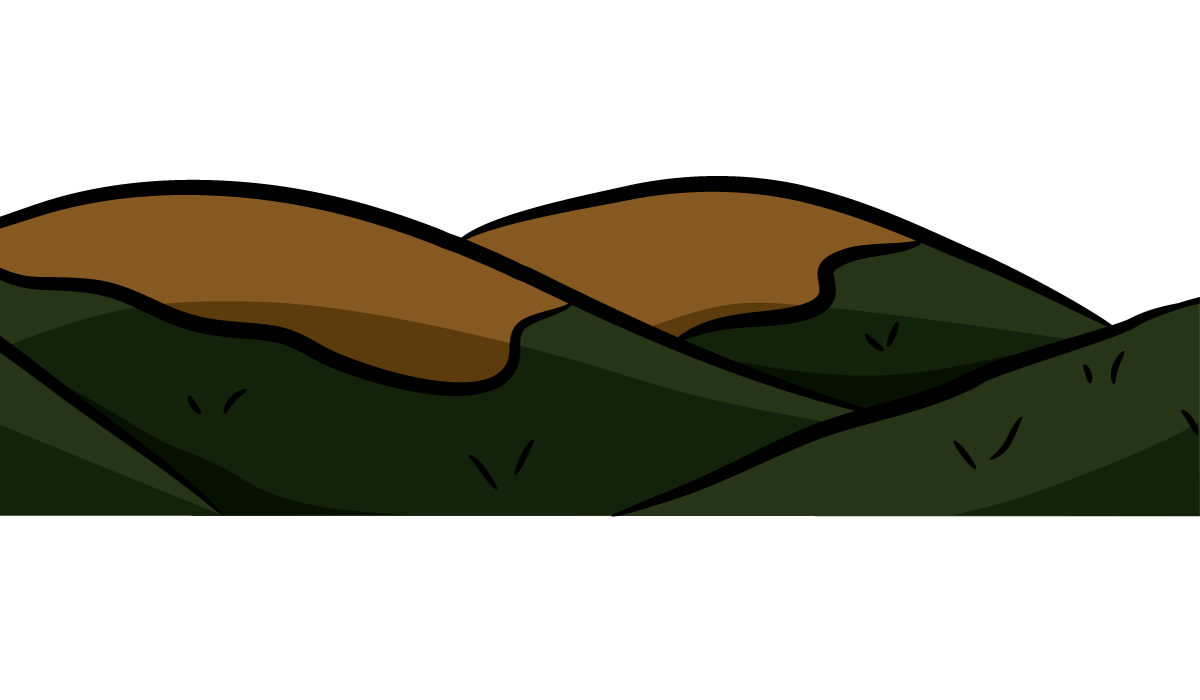
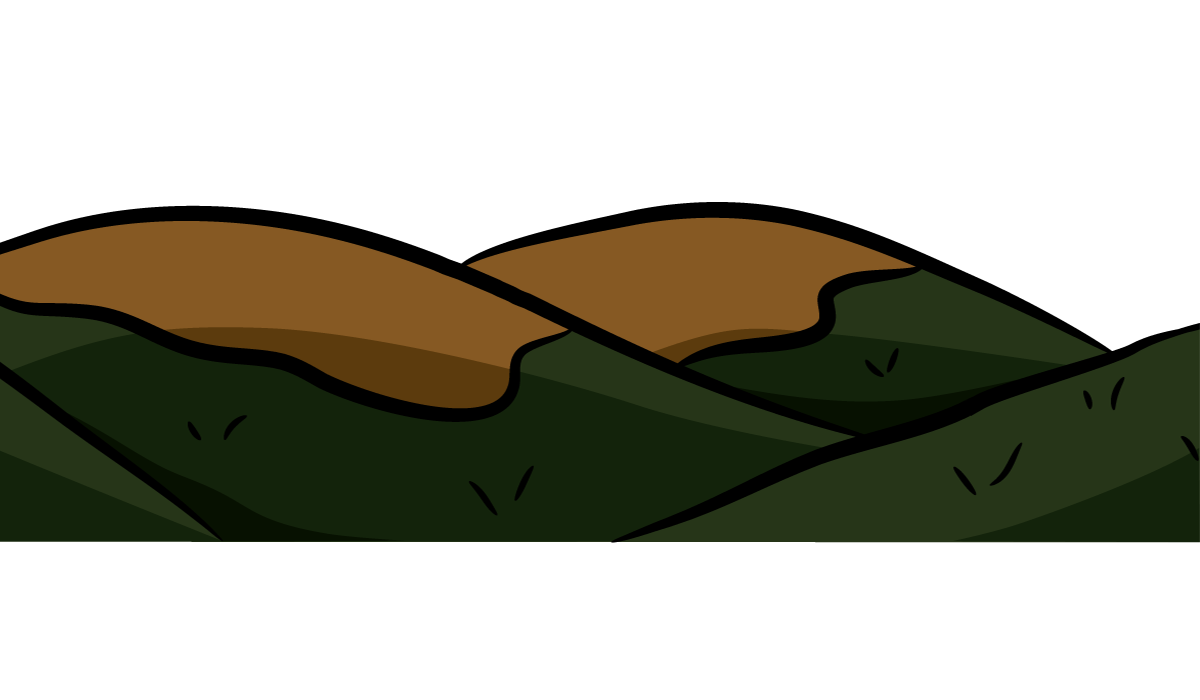
Parallax done

Changed region(s): [[0.0, 0.24, 1.0, 0.78], [0.9867, 0.57, 1.0, 0.66]]

diff --git a/scenes.py b/scenes.py
@@ -13,45 +13,46 @@ class GameScene(Scene):
     self.add(moving_bg)
 
 class MovingBackground(Layer):
-  BG_IMGS = [
-              "images/NonMovingBG.png",
-              "images/Ulap.png",
-              "images/Mountains.png",
-              "images/FastMovingBG.png"
-            ]
   def __init__(self):
     super(MovingBackground, self).__init__()
     self.non_moving_bg = Sprite("images/NonMovingBG.png", anchor=(0,0))
-    self.clouds = Sprite("images/Ulap.png", anchor=(0,0))
+
+    self.clouds = [
+        Sprite("images/clouds_01.png", anchor=(0,0)),
+        Sprite("images/clouds_02.png", anchor=(0,0))
+    ]
 
     self.mountains = [
         Sprite("images/Mountains_01.png", anchor=(0,0)),
         Sprite("images/Mountains_02.png", anchor=(0,0))
     ]
 
+    self.road = [
+        Sprite("images/Road_01.png", anchor=(0,0)),
+        Sprite("images/Road_02.png", anchor=(0,0))
+    ]
+
+    self.parallax_bgs = [self.clouds, self.mountains, self.road]
+    self.parallax_speed = [5, 10, 15]
+
     self.positions = [0, GameScene.WIDTH]
-    self.fast_moving_bg = Sprite("images/FastMovingBG.png", anchor=(0,0))
 
     self.add(self.non_moving_bg)
-    self.add(self.clouds)
 
-    for i in range(0, len(self.mountains)):
-      mountain = self.mountains[i]
-      mountain.x = self.positions[i]
-      self.add(mountain)
-
-
-    self.add(self.fast_moving_bg)
+    for bg in self.parallax_bgs:
+      for i in range(0, len(bg)):
+        bg_img = bg[i]
+        bg_img.x = self.positions[i]
+        self.add(bg_img)
 
     self.interval = 0.1
 
     self.schedule_interval(self.move, self.interval)
 
   def move(self, *args, **kwargs):
-    #self.clouds.x -= 5
-
-    for mountain in self.mountains:
-      mountain.x -= 10
-      if mountain.x == -GameScene.WIDTH:
-        mountain.x = GameScene.WIDTH
-    #self.fast_moving_bg.x -= 15
+    for parallax_obj in self.parallax_bgs:
+      for i in range(0, len(self.parallax_speed)):
+        for sprite in parallax_obj:
+          sprite.x -= self.parallax_speed[i]
+          if sprite.x == -GameScene.WIDTH:
+            sprite.x = GameScene.WIDTH
